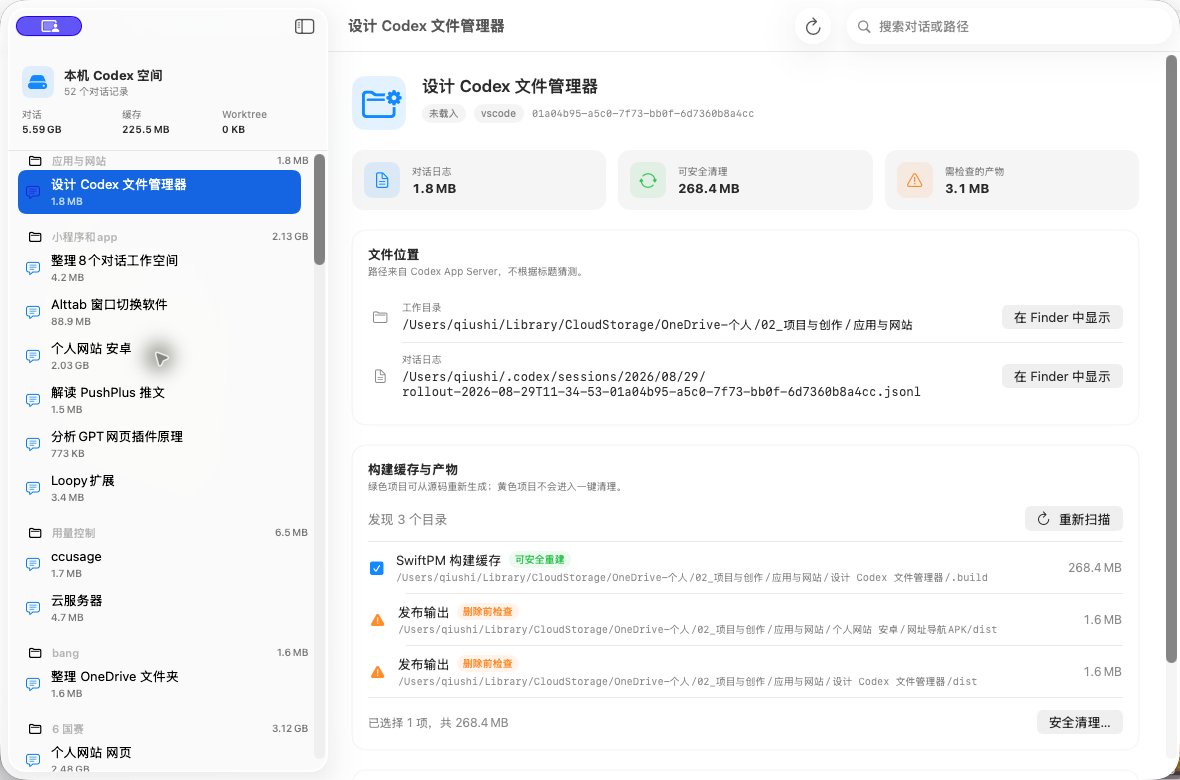
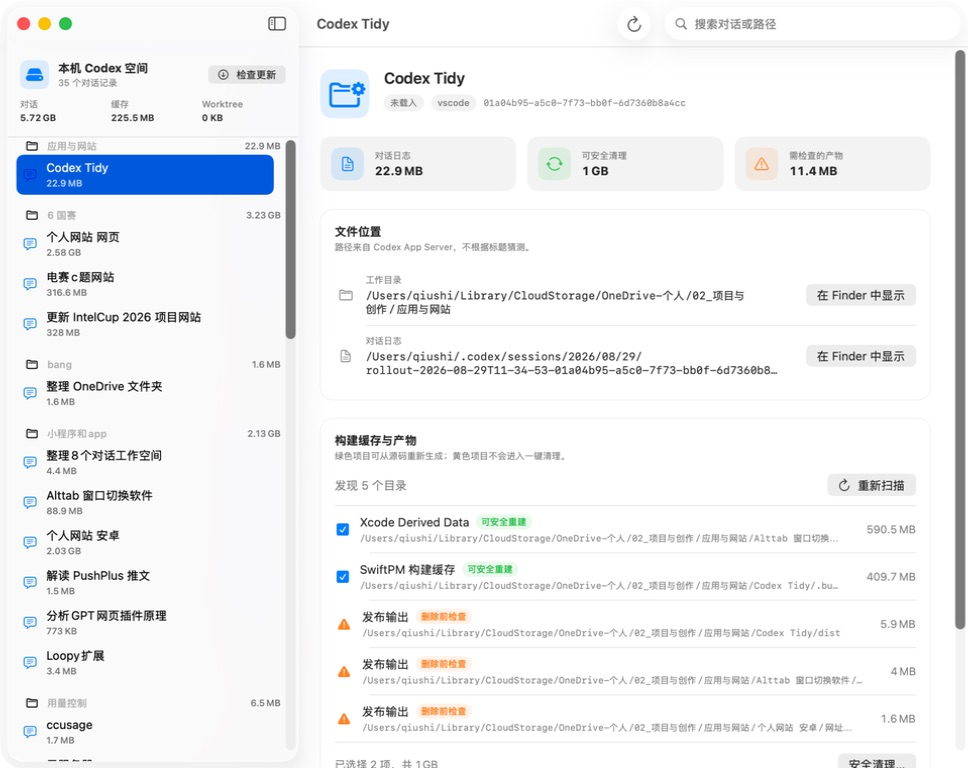
Add in-app update checks

diff --git a/Sources/CodexFileManager/UpdateChecker.swift b/Sources/CodexFileManager/UpdateChecker.swift
@@ -1,0 +1,114 @@
+import AppKit
+import CodexFileCore
+import Foundation
+
+struct AppRelease: Identifiable {
+    let tagName: String
+    let title: String
+    let pageURL: URL
+    let notes: String
+
+    var id: String { tagName }
+}
+
+enum UpdatePresentation: Identifiable {
+    case available(AppRelease)
+    case message(title: String, body: String)
+
+    var id: String {
+        switch self {
+        case let .available(release): release.id
+        case let .message(title, body): title + body
+        }
+    }
+}
+
+@MainActor
+final class UpdateChecker: ObservableObject {
+    @Published private(set) var isChecking = false
+    @Published private(set) var availableRelease: AppRelease?
+    @Published var presentation: UpdatePresentation?
+
+    private let manifestURL = URL(string: "https://raw.githubusercontent.com/Qiushi0919/Codex-Tidy/refs/heads/main/update.json")!
+    private let automaticCheckInterval: TimeInterval = 24 * 60 * 60
+    private let lastCheckKey = "CodexTidyLastUpdateCheck"
+
+    func checkAutomaticallyIfNeeded() async {
+        let lastCheck = UserDefaults.standard.object(forKey: lastCheckKey) as? Date ?? .distantPast
+        guard Date().timeIntervalSince(lastCheck) >= automaticCheckInterval else { return }
+        await check(interactive: false)
+    }
+
+    func check(interactive: Bool) async {
+        guard !isChecking else { return }
+        isChecking = true
+        defer { isChecking = false }
+
+        do {
+            var request = URLRequest(url: manifestURL)
+            request.cachePolicy = .reloadIgnoringLocalCacheData
+            request.setValue("Codex-Tidy-Update-Checker", forHTTPHeaderField: "User-Agent")
+            let (data, response) = try await URLSession.shared.data(for: request)
+            guard let httpResponse = response as? HTTPURLResponse, httpResponse.statusCode == 200 else {
+                throw UpdateCheckError.unavailable
+            }
+
+            let manifest = try JSONDecoder().decode(UpdateManifest.self, from: data)
+            guard let latestVersion = ReleaseVersion(manifest.version) else {
+                throw UpdateCheckError.noRelease
+            }
+
+            UserDefaults.standard.set(Date(), forKey: lastCheckKey)
+            if ReleaseVersion(currentReleaseVersion).map({ $0 < latestVersion }) ?? true {
+                let release = AppRelease(
+                    tagName: manifest.version,
+                    title: manifest.title,
+                    pageURL: manifest.pageURL,
+                    notes: manifest.notes
+                )
+                availableRelease = release
+                presentation = .available(release)
+            } else if interactive {
+                presentation = .message(title: "已是最新版本", body: "当前版本 (currentReleaseVersion)，暂无可用更新。")
+            }
+        } catch {
+            if interactive {
+                presentation = .message(title: "检查更新失败", body: error.localizedDescription)
+            }
+        }
+    }
+
+    func openRelease(_ release: AppRelease) {
+        NSWorkspace.shared.open(release.pageURL)
+    }
+
+    private var currentReleaseVersion: String {
+        Bundle.main.object(forInfoDictionaryKey: "CodexTidyReleaseVersion") as? String ?? "0.1.0-beta.2"
+    }
+}
+
+private struct UpdateManifest: Decodable {
+    let version: String
+    let title: String
+    let pageURL: URL
+    let notes: String
+
+    enum CodingKeys: String, CodingKey {
+        case version
+        case title
+        case pageURL = "html_url"
+        case notes
+    }
+}
+
+private enum UpdateCheckError: LocalizedError {
+    case unavailable
+    case noRelease
+
+    var errorDescription: String? {
+        switch self {
+        case .unavailable: "无法读取公开更新清单，请稍后再试。"
+        case .noRelease: "公开更新清单中的版本号无效。"
+        }
+    }
+}

diff --git a/Sources/CodexFileCore/ReleaseVersion.swift b/Sources/CodexFileCore/ReleaseVersion.swift
@@ -1,0 +1,68 @@
+import Foundation
+
+public struct ReleaseVersion: Comparable, Sendable {
+    private let core: [Int]
+    private let prerelease: [String]?
+
+    public init?(_ rawValue: String) {
+        var value = rawValue.trimmingCharacters(in: .whitespacesAndNewlines)
+        if value.lowercased().hasPrefix("v") {
+            value.removeFirst()
+        }
+        value = String(value.split(separator: "+", maxSplits: 1, omittingEmptySubsequences: false)[0])
+
+        let sections = value.split(separator: "-", maxSplits: 1, omittingEmptySubsequences: false)
+        let parsedCore = sections[0].split(separator: ".").compactMap { Int($0) }
+        guard !parsedCore.isEmpty, parsedCore.count == sections[0].split(separator: ".").count else { return nil }
+
+        core = parsedCore
+        if sections.count == 2, !sections[1].isEmpty {
+            prerelease = sections[1].split(separator: ".").map(String.init)
+        } else {
+            prerelease = nil
+        }
+    }
+
+    public static func < (lhs: ReleaseVersion, rhs: ReleaseVersion) -> Bool {
+        let componentCount = max(lhs.core.count, rhs.core.count)
+        for index in 0..<componentCount {
+            let left = index < lhs.core.count ? lhs.core[index] : 0
+            let right = index < rhs.core.count ? rhs.core[index] : 0
+            if left != right { return left < right }
+        }
+
+        switch (lhs.prerelease, rhs.prerelease) {
+        case (nil, nil):
+            return false
+        case (nil, _):
+            return false
+        case (_, nil):
+            return true
+        case let (left?, right?):
+            return prereleaseIsLess(left, than: right)
+        }
+    }
+
+    private static func prereleaseIsLess(_ lhs: [String], than rhs: [String]) -> Bool {
+        for index in 0..<max(lhs.count, rhs.count) {
+            guard index < lhs.count else { return true }
+            guard index < rhs.count else { return false }
+
+            let left = lhs[index]
+            let right = rhs[index]
+            if left == right { continue }
+
+            switch (Int(left), Int(right)) {
+            case let (leftNumber?, rightNumber?):
+                return leftNumber < rightNumber
+            case (.some, .none):
+                return true
+            case (.none, .some):
+                return false
+            case (.none, .none):
+                return left.localizedStandardCompare(right) == .orderedAscending
+            }
+        }
+        return false
+    }
+}

diff --git a/Sources/CodexFileManager/ContentView.swift b/Sources/CodexFileManager/ContentView.swift
@@ -3,6 +3,7 @@ import SwiftUI
 
 struct ContentView: View {
     @EnvironmentObject private var model: AppModel
+    @EnvironmentObject private var updateChecker: UpdateChecker
     @State private var columnVisibility: NavigationSplitViewVisibility = .all
 
     var body: some View {
@@ -29,6 +30,9 @@ struct ContentView: View {
                 await model.refresh()
             }
         }
+        .task {
+            await updateChecker.checkAutomaticallyIfNeeded()
+        }
         .toolbar {
             ToolbarItemGroup {
                 if model.isLoading {
@@ -52,6 +56,19 @@ struct ContentView: View {
             Button("好", role: .cancel) { model.noticeMessage = nil }
         } message: {
             Text(model.noticeMessage ?? "")
+        }
+        .alert(item: $updateChecker.presentation) { presentation in
+            switch presentation {
+            case let .available(release):
+                Alert(
+                    title: Text("发现新版本 \(release.tagName)"),
+                    message: Text(release.notes.isEmpty ? release.title : release.notes),
+                    primaryButton: .default(Text("查看下载")) { updateChecker.openRelease(release) },
+                    secondaryButton: .cancel(Text("稍后"))
+                )
+            case let .message(title, body):
+                Alert(title: Text(title), message: Text(body), dismissButton: .default(Text("好")))
+            }
         }
     }
 

diff --git a/Sources/CodexFileManager/SidebarView.swift b/Sources/CodexFileManager/SidebarView.swift
@@ -3,6 +3,7 @@ import SwiftUI
 
 struct SidebarView: View {
     @EnvironmentObject private var model: AppModel
+    @EnvironmentObject private var updateChecker: UpdateChecker
 
     var body: some View {
         VStack(spacing: 0) {
@@ -48,6 +49,23 @@ struct SidebarView: View {
                         .foregroundStyle(.secondary)
                 }
                 Spacer()
+                Button {
+                    Task { await updateChecker.check(interactive: true) }
+                } label: {
+                    if updateChecker.isChecking {
+                        ProgressView()
+                            .controlSize(.small)
+                    } else {
+                        Label(
+                            updateChecker.availableRelease == nil ? "检查更新" : "发现新版",
+                            systemImage: updateChecker.availableRelease == nil ? "arrow.down.circle" : "sparkles"
+                        )
+                    }
+                }
+                .buttonStyle(.bordered)
+                .controlSize(.small)
+                .disabled(updateChecker.isChecking)
+                .help("检查 Codex Tidy 更新")
             }
 
             HStack {

diff --git a/Sources/CodexFileManager/AppMain.swift b/Sources/CodexFileManager/AppMain.swift
@@ -3,17 +3,23 @@ import SwiftUI
 @main
 struct CodexFileManagerApp: App {
     @StateObject private var model = AppModel()
+    @StateObject private var updateChecker = UpdateChecker()
 
     var body: some Scene {
         WindowGroup("Codex Tidy") {
             ContentView()
                 .environmentObject(model)
+                .environmentObject(updateChecker)
                 .frame(minWidth: 980, minHeight: 660)
         }
         .defaultSize(width: 1_180, height: 780)
         .commands {
             CommandGroup(replacing: .newItem) { }
-            CommandMenu("Codex Tidy") {
+            CommandMenu("操作") {
+                Button("检查更新…") {
+                    Task { await updateChecker.check(interactive: true) }
+                }
+                Divider()
                 Button("刷新") {
                     Task { await model.refresh() }
                 }

diff --git a/Tests/CodexFileCoreTests/CoreTests.swift b/Tests/CodexFileCoreTests/CoreTests.swift
@@ -2,6 +2,13 @@ import XCTest
 @testable import CodexFileCore
 
 final class CoreTests: XCTestCase {
+    func testReleaseVersionComparison() throws {
+        XCTAssertEqual(ReleaseVersion("v0.1.0-beta.1"), ReleaseVersion("0.1.0-beta.1"))
+        XCTAssertLessThan(try XCTUnwrap(ReleaseVersion("0.1.0-beta.1")), try XCTUnwrap(ReleaseVersion("0.1.0")))
+        XCTAssertLessThan(try XCTUnwrap(ReleaseVersion("0.1.0-beta.2")), try XCTUnwrap(ReleaseVersion("0.1.0-beta.10")))
+        XCTAssertLessThan(try XCTUnwrap(ReleaseVersion("0.1.9")), try XCTUnwrap(ReleaseVersion("0.2.0")))
+    }
+
     func testParsesThreadListItem() throws {
         let object: [String: Any] = [
             "id": "thread-1",

diff --git a/RELEASE_NOTES.md b/RELEASE_NOTES.md
@@ -1,6 +1,6 @@
-# Codex Tidy 0.1.0 Beta 1
+# Codex Tidy 0.1.0 Beta 2
 
-首个社区公开测试版。
+本次测试版加入应用内更新检查，同时保留由用户确认下载与安装的安全边界。
 
 ## 主要功能
 
@@ -9,6 +9,8 @@
 - 扫描常见构建缓存，只把高置信度可重建内容移入废纸篓。
 - 通过 Codex App Server 归档或永久删除对话，并保护正在运行或最近更新的对话。
 - 同时支持 Apple Silicon 和 Intel Mac。
+- 启动后每天检查一次 GitHub Releases，并在侧栏顶部提供手动“检查更新”按钮。
+- 发现新版时只提示并打开官方 Release 下载页，不静默替换应用。
 
 ## 安装提示
 
@@ -16,10 +18,10 @@
 
 需要 macOS 14 或更高版本，并已安装、登录 ChatGPT/Codex。请在删除任何内容前备份或提交重要成果。
 
[2 lines of base64/hex data omitted]
 
 ---
 
-First public beta. It locates Codex thread logs and workspaces, reports disk usage, scans rebuildable caches, and moves only high-confidence cleanup candidates to Trash. The Universal build supports both Apple Silicon and Intel Macs.
+This beta adds a daily GitHub Releases check and a manual update button in the sidebar. Updates are never installed silently: the app only offers to open the official Release download page. It continues to locate Codex thread logs and workspaces, report disk usage, scan rebuildable caches, and move only high-confidence cleanup candidates to Trash.
 
 This build is ad-hoc signed and not yet Apple-notarized. Control-click the app and choose **Open** on first launch. macOS 14 or later and a local signed-in ChatGPT/Codex installation are required.

diff --git a/README.en.md b/README.en.md
@@ -1,6 +1,6 @@
 # Codex Tidy
 
-[中文](README.md) · [Public beta](https://github.com/Qiushi0919/Codex-Tidy/releases/tag/v0.1.0-beta.1) · [Privacy](PRIVACY.md)
+[中文](README.md) · [Public beta](https://github.com/Qiushi0919/Codex-Tidy/releases/tag/v0.1.0-beta.2) · [Privacy](PRIVACY.md)
 
 ![Codex Tidy cover: threads, files, and storage at a glance](docs/screenshots/codex-tidy-cover.png)
 
@@ -15,6 +15,7 @@ Codex Tidy is an open-source native macOS utility for locating Codex conversatio
 - Finds rebuildable caches such as `node_modules`, `.gradle`, `.build`, `.next`, and `__pycache__`.
 - Moves only high-confidence cache candidates to the macOS Trash. Potential deliverables such as `dist`, `build`, and APK files are review-only.
 - Archives or permanently deletes threads through App Server instead of editing Codex's private database.
+- Checks GitHub Releases once per day and provides a manual sidebar check; the user chooses whether to open the download page.
 - Includes a read-only JSON CLI, `codexfm`, for scripts and future Skill integrations.
 
 ## Screenshots

diff --git a/PRIVACY.md b/PRIVACY.md
@@ -20,7 +20,7 @@ Permanent thread deletion is not recoverable from Trash. Users should commit or 
 
 ## Network behavior
 
-Codex Tidy starts App Server over local standard input/output (`stdio`) and does not open a listening network port. The app itself does not send telemetry. Codex may use the network as part of its normal operation.
+Codex Tidy starts App Server over local standard input/output (`stdio`) and does not open a listening network port. It reads a public update manifest from `raw.githubusercontent.com` at most once per day, or when the user clicks **Check for Updates**, to compare public version metadata. The app does not send telemetry, conversation contents, or local paths. Codex may use the network as part of its normal operation.
 
 ## Reports
 

diff --git a/CHANGELOG.md b/CHANGELOG.md
@@ -2,6 +2,13 @@
 
 All notable changes are documented here.
 
+## [0.1.0-beta.2] - 2026-08-30
+
+### Added
+
+- Daily GitHub Releases checks and a manual update button in the sidebar and app menu.
+- User-controlled download flow that never silently replaces the installed app.
+
 ## [0.1.0-beta.1] - 2026-08-29
 
 ### Added
